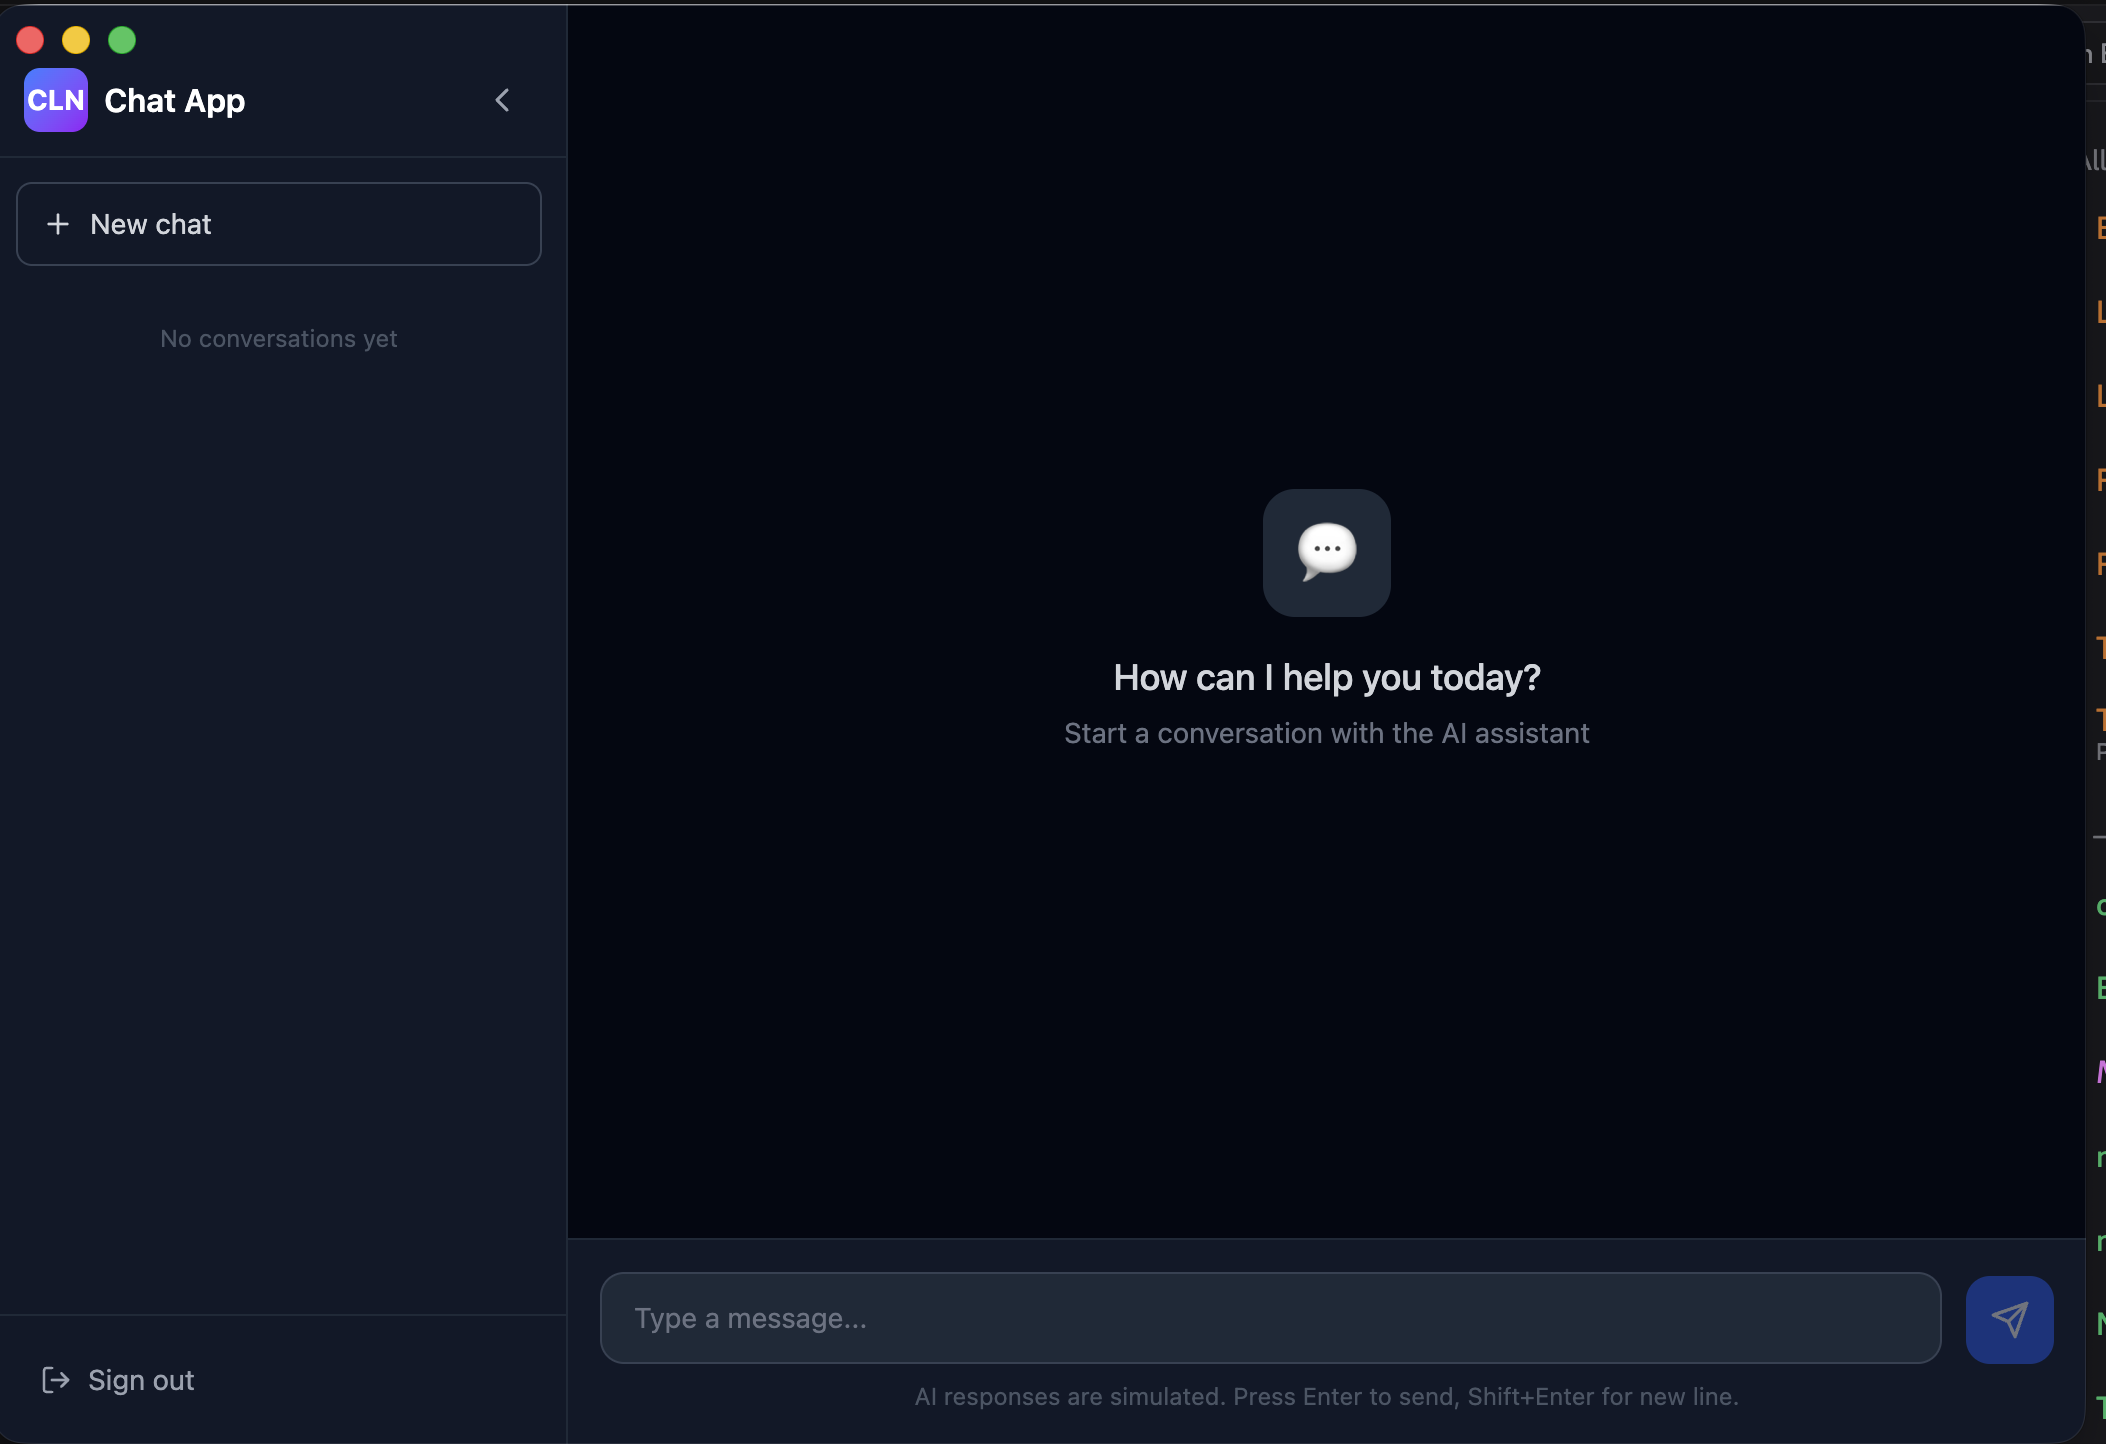
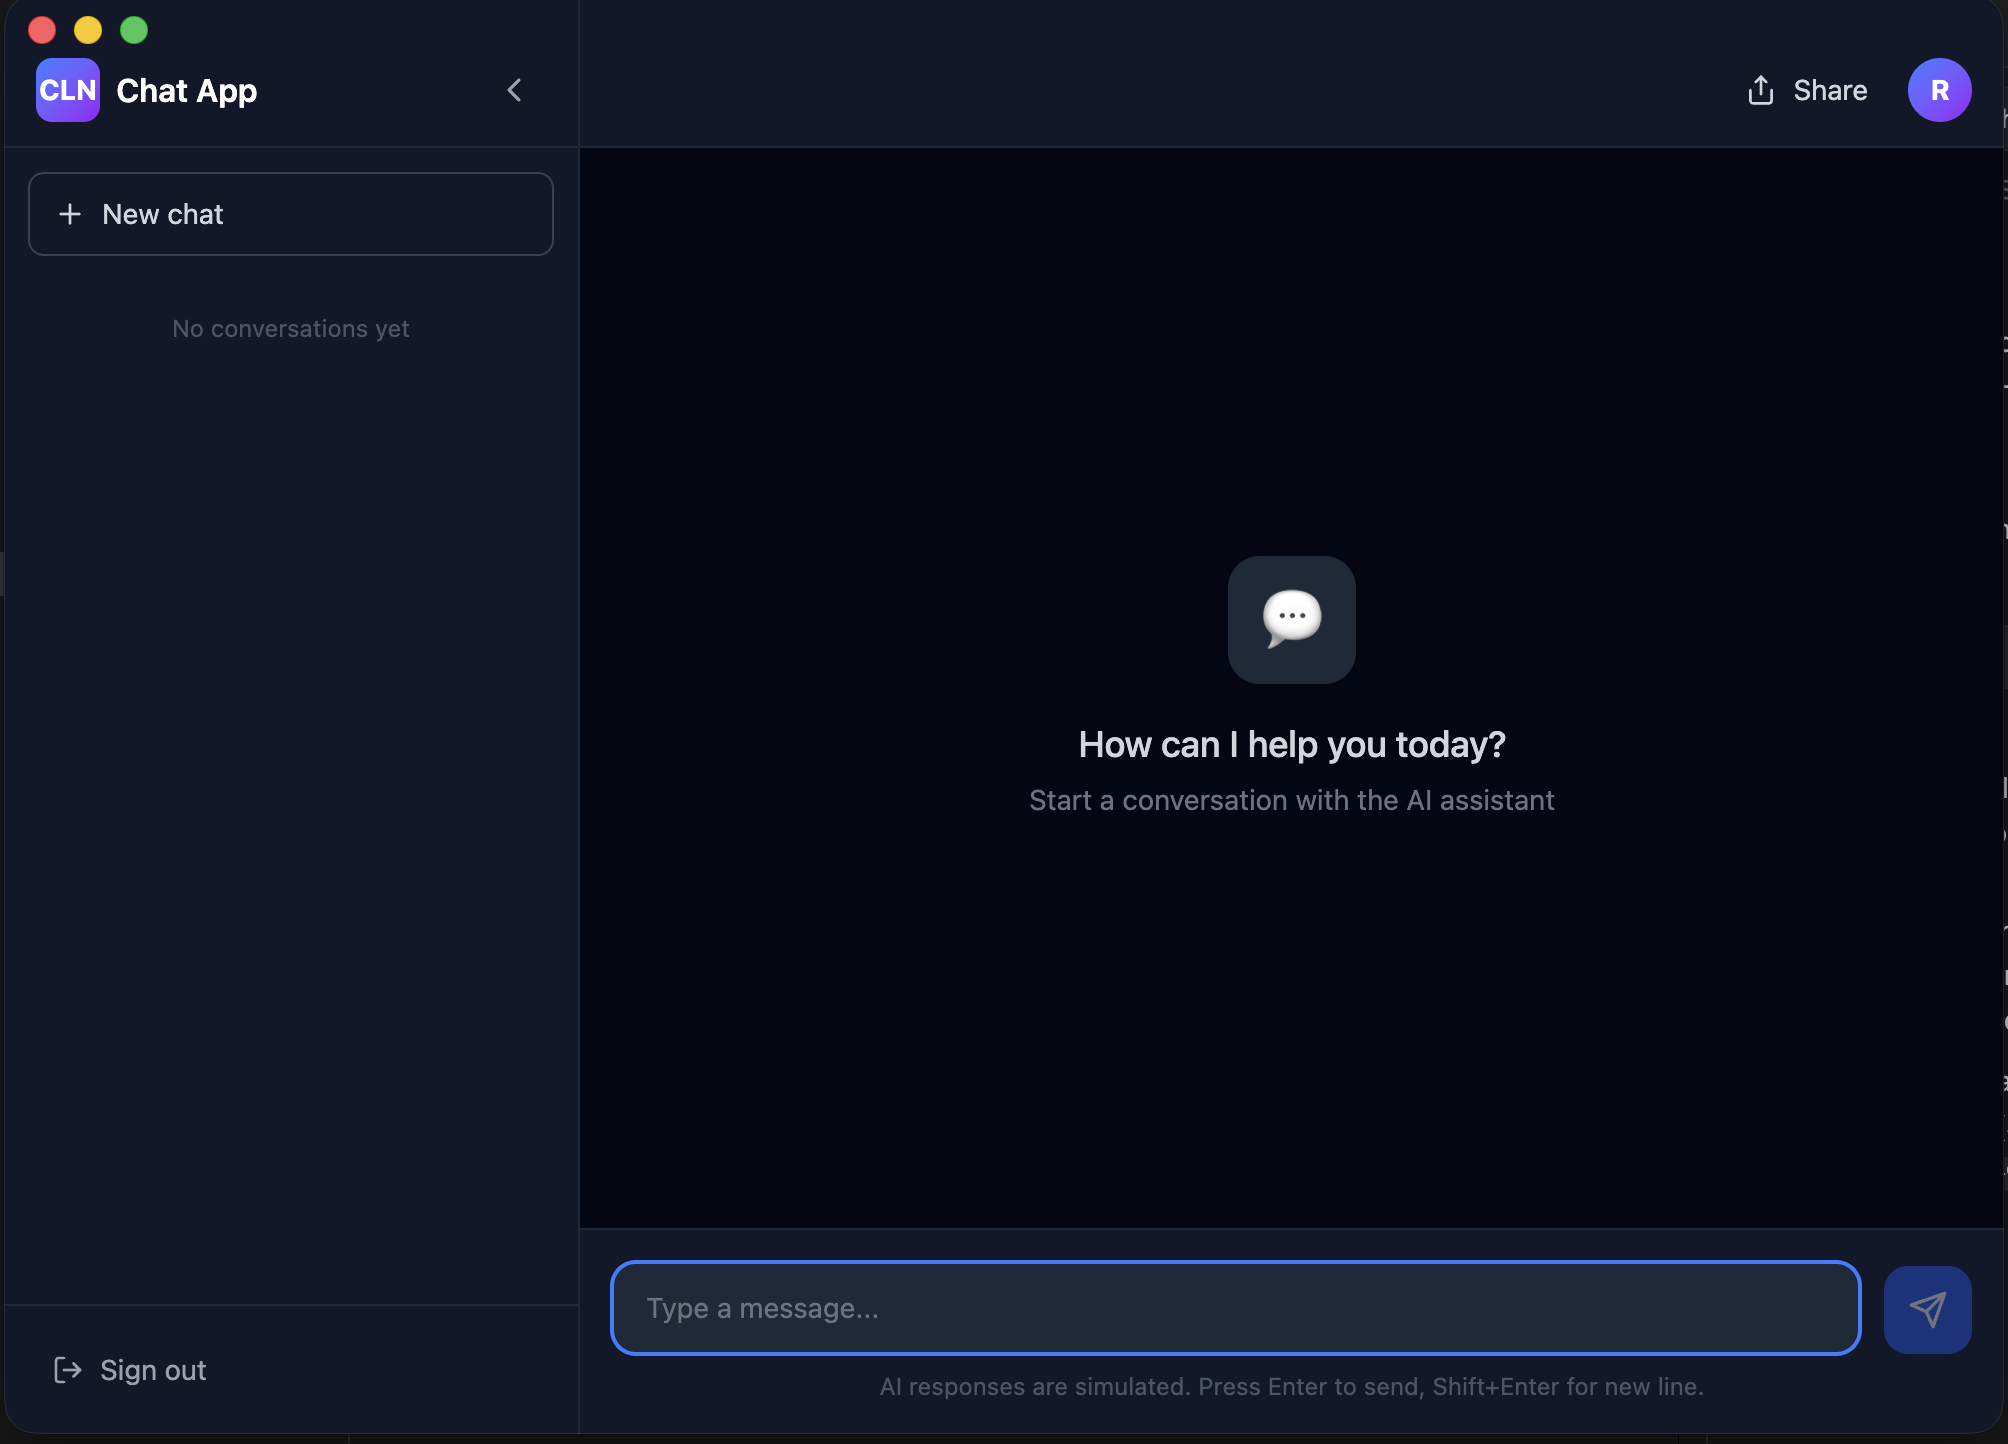
feat: add header app

diff --git a/src/renderer/src/layouts/Header.tsx b/src/renderer/src/layouts/Header.tsx
@@ -1,0 +1,77 @@
+import { useState } from 'react'
+
+export default function Header(): React.JSX.Element {
+  const [showProfileMenu, setShowProfileMenu] = useState(false)
+
+  return (
+    <header className="flex shrink-0 items-center justify-end gap-2 border-b border-gray-800 bg-gray-900 px-4 pt-8 pb-3">
+      {/* Share Conversation */}
+      <button
+        className="flex h-8 cursor-pointer items-center gap-2 rounded-lg px-3 text-sm text-gray-300 transition-colors hover:bg-gray-800 hover:text-white"
+        onClick={() => {
+          /* TODO: share logic */
+        }}
+      >
+        <svg
+          className="h-4 w-4"
+          viewBox="0 0 24 24"
+          fill="none"
+          stroke="currentColor"
+          strokeWidth="2"
+          strokeLinecap="round"
+          strokeLinejoin="round"
+        >
+          <path d="M4 12v8a2 2 0 0 0 2 2h12a2 2 0 0 0 2-2v-8" />
+          <polyline points="16 6 12 2 8 6" />
+          <line x1="12" y1="2" x2="12" y2="15" />
+        </svg>
+        <span>Share</span>
+      </button>
+
+      {/* Profile Avatar */}
+      <div className="relative">
+        <button
+          className="flex h-8 w-8 cursor-pointer items-center justify-center rounded-full bg-linear-to-br from-blue-500 to-purple-600 text-sm font-bold text-white transition-opacity hover:opacity-80"
+          onClick={() => setShowProfileMenu((prev) => !prev)}
+        >
+          R
+        </button>
+
+        {showProfileMenu && (
+          <div className="absolute right-0 top-full mt-2 w-48 rounded-lg border border-gray-700 bg-gray-800 py-1 shadow-xl">
+            <button className="flex w-full cursor-pointer items-center gap-2 px-4 py-2 text-sm text-gray-300 transition-colors hover:bg-gray-700 hover:text-white">
+              <svg
+                className="h-4 w-4"
+                viewBox="0 0 24 24"
+                fill="none"
+                stroke="currentColor"
+                strokeWidth="2"
+                strokeLinecap="round"
+                strokeLinejoin="round"
+              >
+                <path d="M20 21v-2a4 4 0 0 0-4-4H8a4 4 0 0 0-4 4v2" />
+                <circle cx="12" cy="7" r="4" />
+              </svg>
+              My Profile
+            </button>
+            <button className="flex w-full cursor-pointer items-center gap-2 px-4 py-2 text-sm text-gray-300 transition-colors hover:bg-gray-700 hover:text-white">
+              <svg
+                className="h-4 w-4"
+                viewBox="0 0 24 24"
+                fill="none"
+                stroke="currentColor"
+                strokeWidth="2"
+                strokeLinecap="round"
+                strokeLinejoin="round"
+              >
+                <circle cx="12" cy="12" r="3" />
+                <path d="M19.4 15a1.65 1.65 0 0 0 .33 1.82l.06.06a2 2 0 0 1-2.83 2.83l-.06-.06a1.65 1.65 0 0 0-1.82-.33 1.65 1.65 0 0 0-1 1.51V21a2 2 0 0 1-4 0v-.09A1.65 1.65 0 0 0 9 19.4a1.65 1.65 0 0 0-1.82.33l-.06.06a2 2 0 0 1-2.83-2.83l.06-.06A1.65 1.65 0 0 0 4.68 15a1.65 1.65 0 0 0-1.51-1H3a2 2 0 0 1 0-4h.09A1.65 1.65 0 0 0 4.6 9a1.65 1.65 0 0 0-.33-1.82l-.06-.06a2 2 0 0 1 2.83-2.83l.06.06A1.65 1.65 0 0 0 9 4.68a1.65 1.65 0 0 0 1-1.51V3a2 2 0 0 1 4 0v.09a1.65 1.65 0 0 0 1 1.51 1.65 1.65 0 0 0 1.82-.33l.06-.06a2 2 0 0 1 2.83 2.83l-.06.06A1.65 1.65 0 0 0 19.4 9a1.65 1.65 0 0 0 1.51 1H21a2 2 0 0 1 0 4h-.09a1.65 1.65 0 0 0-1.51 1z" />
+              </svg>
+              Settings
+            </button>
+          </div>
+        )}
+      </div>
+    </header>
+  )
+}

diff --git a/src/renderer/src/layouts/MainLayout.tsx b/src/renderer/src/layouts/MainLayout.tsx
@@ -1,4 +1,5 @@
-import Sidebar from '../components/Sidebar'
+import Sidebar from './Sidebar'
+import Header from './Header'
 import ChatScreen from '../components/ChatScreen'
 
 interface MainLayoutProps {
@@ -9,7 +10,8 @@ export default function MainLayout({ onLogout }: MainLayoutProps): React.JSX.Ele
   return (
     <div className="flex h-screen bg-gray-950">
       <Sidebar onLogout={onLogout} />
-      <main className="flex-1 overflow-hidden">
+      <main className="flex flex-1 flex-col overflow-hidden">
+        <Header />
         <ChatScreen />
       </main>
     </div>
